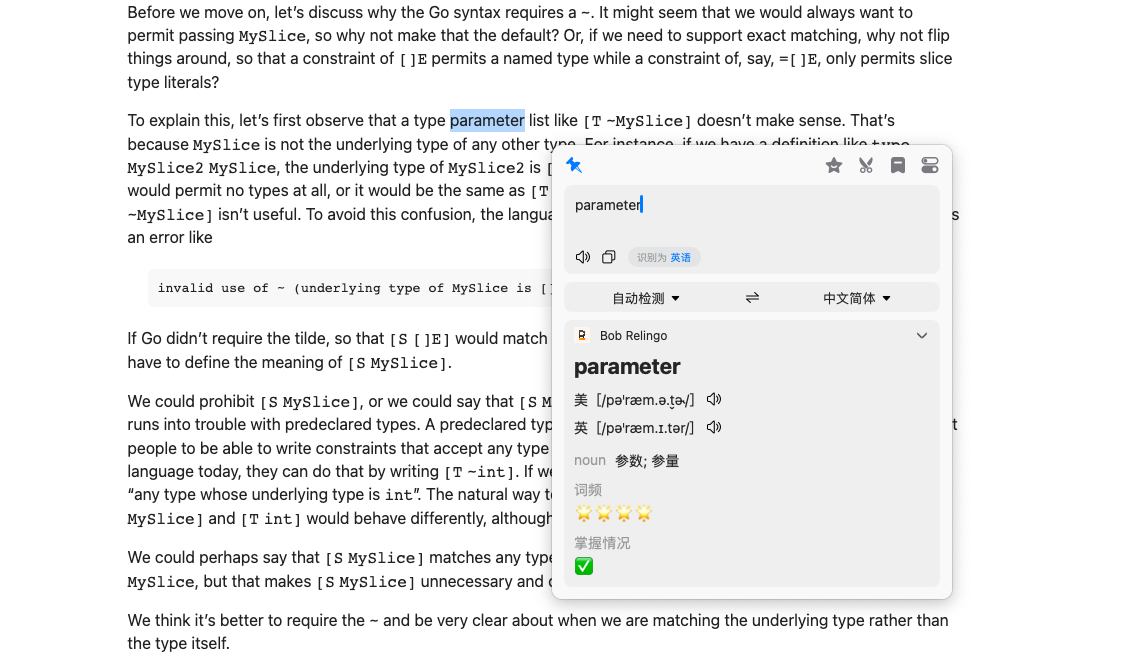
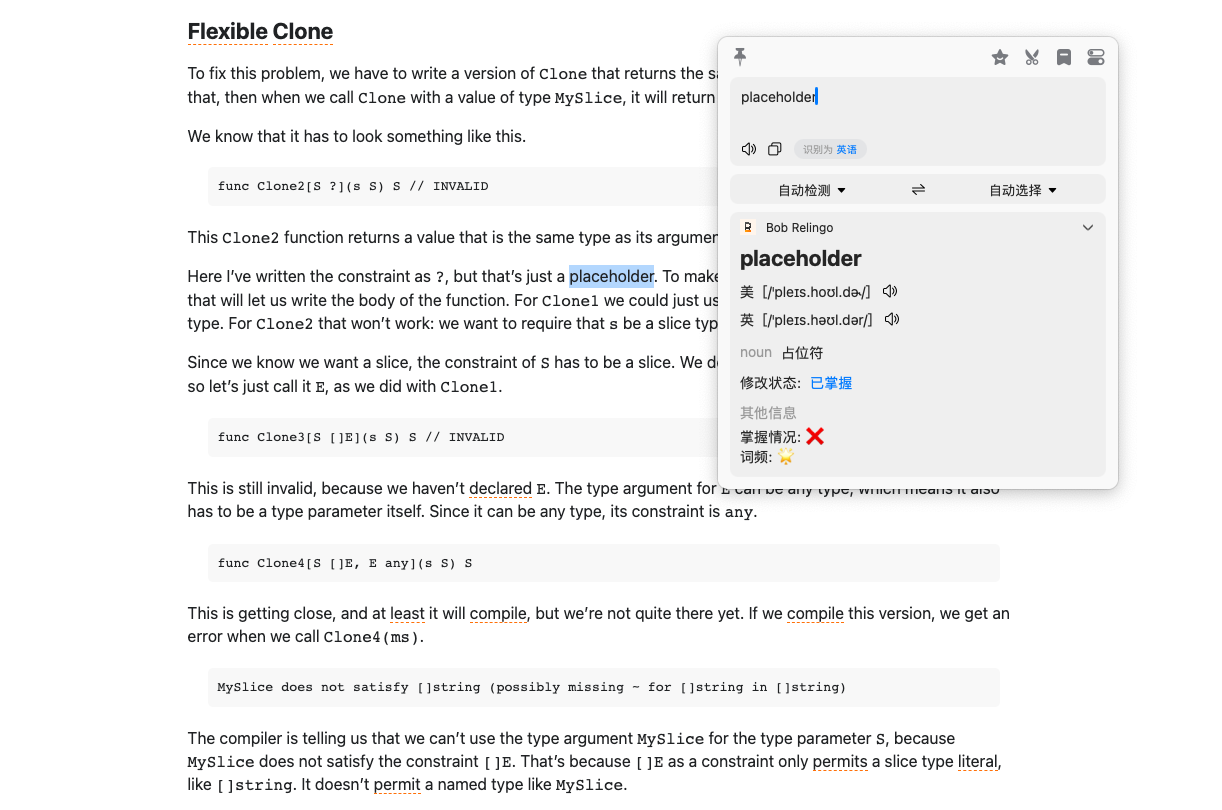
modify word status

Changed region(s): [[0.0931, 0.0, 0.9309, 0.9851], [0.7447, 0.4179, 0.7757, 0.4776]]

diff --git a/src/relingo.js b/src/relingo.js
@@ -141,7 +141,6 @@ async function getUserConfig() {
             }
         });
         if (resp.data && resp.data.code === 0) {
-            config.updateRelingoConfig(JSON.stringify(resp.data.data.config));
             userConfig.books = [];
             // userConfig.native = resp.data.data.config.lang.native; // 翻译语言，鉴于relingo其他语言翻译不够完善，暂时不使用
             for (const book of resp.data.data.config.books) {
@@ -273,9 +272,88 @@ async function lookupDict2(to, words) {
     }
 }
 
+// 遗忘单词
+async function removeVocabularyWords(words) {
+    try {
+        const userConfig = config.getConfig();
+        const resp = await $http.request({
+            method: "POST",
+            url: relingoUrl + "/api/removeVocabularyWords",
+            body: {
+                "id": userConfig.mastered,
+                "type": "strange",
+                "words": [words],
+            },
+            header: {
+                'x-relingo-lang': userConfig.lang,
+                'x-relingo-token': userConfig.token,
+                'Content-Type': 'application/json',
+                'User-Agent': 'Mozilla/5.0 (Macintosh; Intel Mac OS X 10_15_7) AppleWebKit/537.36 (KHTML, like Gecko) Chrome/110.0.0.0 Safari/537.36'
+            }
+        });
+        // $log.info(JSON.stringify(resp.data));
+        if (!resp.data || resp.data.code !== 0) {
+            const errMsg = resp.data.message ? JSON.stringify(resp.data.message) : '\"/api/removeVocabularyWords\"请求失败,请检查网络';
+            const err = new Error();
+            Object.assign(err, {
+                _type: 'api',
+                _message: errMsg,
+            });
+            throw err;
+        }
+    } catch (e) {
+        Object.assign(e, {
+            _type: e._type || 'network',
+            _message: e._message || '接口请求错误 - ' + JSON.stringify(e),
+        });
+        throw e;
+    }
+}
+
+// 掌握单词
+async function submitVocabulary(words) {
+    try {
+        const userConfig = config.getConfig();
+        const resp = await $http.request({
+            method: "POST",
+            url: relingoUrl + "/api/submitVocabulary",
+            body: {
+                "id": userConfig.mastered,
+                "type": "mastered",
+                "words": [words],
+            },
+            header: {
+                'x-relingo-lang': userConfig.lang,
+                'x-relingo-token': userConfig.token,
+                'Content-Type': 'application/json',
+                'User-Agent': 'Mozilla/5.0 (Macintosh; Intel Mac OS X 10_15_7) AppleWebKit/537.36 (KHTML, like Gecko) Chrome/110.0.0.0 Safari/537.36'
+            }
+        });
+        // $log.info(JSON.stringify(resp.data));
+        if (!resp.data || resp.data.code !== 0) {
+            const errMsg = resp.data.message ? JSON.stringify(resp.data.message) : '\"/api/removeVocabularyWords\"请求失败,请检查网络';
+            const err = new Error();
+            Object.assign(err, {
+                _type: 'api',
+                _message: errMsg,
+            });
+            throw err;
+        }
+    } catch (e) {
+        Object.assign(e, {
+            _type: e._type || 'network',
+            _message: e._message || '接口请求错误 - ' + JSON.stringify(e),
+        });
+        throw e;
+    }
+}
+
+
 exports.authorization = authorization;
 exports.loginByCode = loginByCode;
 exports.getUserInfo = getUserInfo;
 exports.getUserConfig = getUserConfig;
 exports.parseContent3 = parseContent3;
 exports.lookupDict2 = lookupDict2;
+exports.removeVocabularyWords = removeVocabularyWords;
+exports.submitVocabulary = submitVocabulary;

diff --git a/src/main.js b/src/main.js
@@ -2,6 +2,7 @@ var config = require('./config.js');
 var relingo = require('./relingo.js');
 var words = require('./word.js');
 var deepl = require('./deepl.js');
+var utils = require('./utils.js');
 
 var items = [
     ['auto', 'auto'],
@@ -29,16 +30,15 @@ function supportLanguages() {
 
 function translate(query, completion) {
     (async () => {
+        if (await utils.checkVocabulary(query, completion)){
+            return;
+        }
         const sourceLanguage = langMap.get(query.detectFrom);
         const targetLanguage = langMap.get(query.detectTo);
-        if (sourceLanguage !== 'en') {
-            const err = new Error();
-            Object.assign(err, {
-                _type: 'unsupportLanguage',
-                _message: 'relingo插件只支持翻译英文',
-            });
-            throw err;
-        }
+        const userConfig = config.getConfig();
+        const source_lang = sourceLanguage || 'en';
+        const target_lang = targetLanguage || userConfig.native;
+        const translate_text = query.text || '';
         if (targetLanguage === '') {
             const err = new Error();
             Object.assign(err, {
@@ -47,13 +47,10 @@ function translate(query, completion) {
             });
             throw err;
         }
-        const userConfig = config.getConfig();
-        const source_lang = sourceLanguage || 'en';
-        const target_lang = targetLanguage || userConfig.native;
-        const translate_text = query.text || '';
         if (translate_text !== '') {
             // 英文单词判定正则表达式
-            if (/^[a-zA-Z,\.\?!'\s]+$/.test(translate_text)
+            if (sourceLanguage === 'en'
+                && /^[a-zA-Z,\.\?!'\s]+$/.test(translate_text)
                 && translate_text.split(/\s+/).filter(word => /^[a-zA-Z\s]+$/.test(word)).length === 1){
                 // 验证是否登录
                 if ($option.email !== ""
@@ -62,13 +59,10 @@ function translate(query, completion) {
                         await words.translate(query, source_lang, target_lang, translate_text, completion);
                     }catch (e) {
                         // relingo 未收录使用deepl翻译
-                        if (e._type === 'notFound' ){
-                            await deepl.translate(translate_text, sourceLanguage, targetLanguage, completion);
-                        }else {
+                        if (e._type !== 'notFound' ){
                             throw e;
                         }
                     }
-                    return;
                 }
             }
             // 默认deepL
@@ -119,6 +113,8 @@ function pluginValidate(completion) {
                     return;
                 } else {
                     await relingo.loginByCode()
+                    await relingo.getUserInfo();
+                    await relingo.getUserConfig();
                     break;
                 }
             case "active":

diff --git a/src/word.js b/src/word.js
@@ -1,5 +1,7 @@
 var relingo = require('./relingo.js');
+var config = require('./config.js');
 var locales = require('./locales.js');
+const {configPath} = require("./config");
 
 // 单词翻译
 async function translate(query, source_lang, target_lang, translate_text, completion) {
@@ -108,16 +110,24 @@ async function translate(query, source_lang, target_lang, translate_text, comple
                 }
             }
             if (additionalDisplay==='1'){
+                let extraInfo = [];
+                extraInfo.push("掌握情况: " + (data.mastered ? '✅' : '❌'));
                 if (data.wordFrequency) {
-                    toDict.additions.push({
-                        "name": "词频",
-                        "value": '🌟'.repeat(data.wordFrequency),
-                    })
+                    extraInfo.push("词频: " + '🌟'.repeat(data.wordFrequency));
                 }
                 toDict.additions.push({
-                    "name": "掌握情况",
-                    "value": data.mastered ? '✅' : '❌',
+                    "name": "其他信息",
+                    "value": extraInfo.join('\n'),
                 })
+            }
+            // 更新词组，用作更新状态
+            const userConfig = config.getConfig();
+            userConfig.lastWords = data.word;
+            config.updateConfig(userConfig);
+            if (data.mastered){
+                toDict.exchanges.push({"name":"修改状态","words":["忘记了"]});
+            }else {
+                toDict.exchanges.push({"name":"修改状态","words":["已掌握"]})
             }
             completion({
                 result: {

diff --git a/src/utils.js b/src/utils.js
@@ -1,0 +1,42 @@
+var config = require('./config.js');
+var relingo = require('./relingo.js');
+async function checkVocabulary(query,  completion) {
+    const userConfig = config.getConfig();
+    if (query.text !== ''
+        && userConfig.lastWords !== ''
+        && userConfig.mail !== ''
+        && userConfig.token !== '') {
+        if (query.text === "已掌握") {
+            await relingo.submitVocabulary(userConfig.lastWords);
+            const lastWords = userConfig.lastWords;
+            userConfig.lastWords = '';
+            config.updateConfig(userConfig);
+
+            completion({
+                result: {
+                    from: query.detectFrom,
+                    to: query.detectTo,
+                    toParagraphs: [lastWords + '已掌握'],
+                },
+            });
+            return true;
+        }
+        if (query.text === "忘记了") {
+            await relingo.removeVocabularyWords(userConfig.lastWords);
+            const lastWords = userConfig.lastWords;
+            userConfig.lastWords = '';
+            config.updateConfig(userConfig);
+            completion({
+                result: {
+                    from: query.detectFrom,
+                    to: query.detectTo,
+                    toParagraphs: [lastWords + '已添加到生词本'],
+                }
+            })
+            return true;
+        }
+    }
+    return false;
+}
+
+exports.checkVocabulary = checkVocabulary;

diff --git a/src/config.js b/src/config.js
@@ -1,5 +1,4 @@
 const configPath = "$sandbox/config.json";
-const relingoConfigPath = "$sandbox/relingoConfig.json";
 
 const defaultConfig = {
     "version": "0.0.1", // 配置版本号与插件版本区分
@@ -16,20 +15,23 @@ const defaultConfig = {
     "strange": "", // 陌生单词本
     "mastered": "", // 掌握的单词本
     books: [], // relingo books
+    "lastWords": "", // 上次查询的单词,用于遗忘和记住
 }
 
 function updateConfig(config) {
-    $file.write({
-        data: $data.fromUTF8(JSON.stringify(config)),
-        path: configPath,
-    })
-}
-
-function updateRelingoConfig(config) {
-    $file.write({
-        data: $data.fromUTF8(config),
-        path: relingoConfigPath,
-    })
+    if (config){
+        $file.write({
+            data: $data.fromUTF8(JSON.stringify(config)),
+            path: configPath,
+        })
+    }else {
+        const err = new Error();
+        Object.assign(err, {
+            _type: 'param',
+            _message: 'config异常，更新失败'+JSON.stringify(config),
+        });
+        throw err;
+    }
 }
 
 function getConfig() {
@@ -60,4 +62,3 @@ function configInit() {
 exports.configPath = configPath;
 exports.getConfig = getConfig;
 exports.updateConfig = updateConfig;
-exports.updateRelingoConfig = updateRelingoConfig;

diff --git a/src/deepl.js b/src/deepl.js
@@ -132,7 +132,6 @@ async function translate(query, from, to, completion) {
                     error: {
                         type: 'unknown',
                         message: errMsg,
-                        // addtion: errMsg,
                     },
                 });
             }

diff --git a/README.md b/README.md
@@ -8,14 +8,16 @@
 
 单词查询使用了relingo的词库进行查询，可以根据个人relingo的单词掌握情况显示该单词是否已经掌握。
 
-(v0.0.4版本会考虑可以修改单词掌握情况，并同步自relingo)
-
 ⚠注意：
 
-- 为了保证开箱即用，如果需要使用relingo的单词查询，需要在[设置](##设置)里进行登录，如果没登录默认使用deepL的查询接口。
+- 为了保证开箱即用，如果需要使用relingo的单词查询，需要在[设置](#设置)里进行登录，如果没登录默认使用deepL的查询接口。
 - 由于relingo并没有收录所有接口，**如果relingo没有查询到单词将使用deepl的查询接口直接翻译**。
 
 ![word](./docs/imgs/word.png)
+
+#### 修改状态
+
+如果需要对单词掌握状态进行修改，点击修改状态栏的**[已掌握/忘记了]**，即可进行状态修改。
 
 ### 句子查询
 
